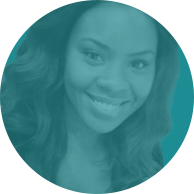
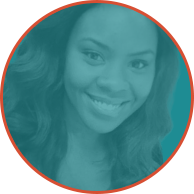
Removed bevel edges

Changed region(s): [[0.0, 0.0, 1.0, 1.0]]

diff --git a/stylesheets/app.css b/stylesheets/app.css
@@ -9052,7 +9052,7 @@ ul {
   overflow-x: hidden;
   overflow-y: auto;
   background-image: url("img/4571462.png");
-  background-size: 60%;
+  background-size: 80%;
 }
 @media screen and (max-width: 480px) {
   /* line 41, ../scss/_custom.scss */
@@ -9091,12 +9091,11 @@ ul {
 
 /* line 87, ../scss/_custom.scss */
 .intro {
-  background: linear-gradient(135deg, transparent 10px, #f7f7ec 0) top left, linear-gradient(225deg, transparent 10px, #f7f7ec 0) top right, linear-gradient(315deg, transparent 10px, #f7f7ec 0) bottom right, linear-gradient(45deg, transparent 10px, #f7f7ec 0) bottom left;
-  background-size: 90%;
-  background-repeat: no-repeat;
   margin-top: 5%;
   float: left;
+  background-color: #f7f7ec;
   padding: 5%;
+  box-shadow: 16px -22px 300px 0px #1e8c93;
 }
 @media screen and (max-width: 1024px) {
   /* line 87, ../scss/_custom.scss */
@@ -9104,20 +9103,20 @@ ul {
     padding: 10%;
   }
 }
-/* line 105, ../scss/_custom.scss */
+/* line 98, ../scss/_custom.scss */
 .intro img {
   width: 20%;
   margin-left: 40%;
   margin-bottom: 10px;
 }
 @media screen and (max-width: 480px) {
-  /* line 105, ../scss/_custom.scss */
+  /* line 98, ../scss/_custom.scss */
   .intro img {
     width: 30%;
     margin-left: 35%;
   }
 }
-/* line 114, ../scss/_custom.scss */
+/* line 107, ../scss/_custom.scss */
 .intro h1 {
   font-family: "rooney-web";
   text-transform: uppercase;
@@ -9126,12 +9125,12 @@ ul {
   color: #4B3E4D;
 }
 @media screen and (max-width: 480px) {
-  /* line 114, ../scss/_custom.scss */
+  /* line 107, ../scss/_custom.scss */
   .intro h1 {
     font-size: 1.5rem;
   }
 }
-/* line 124, ../scss/_custom.scss */
+/* line 117, ../scss/_custom.scss */
 .intro p {
   color: #4B3E4D;
   font-family: "rooney-sans";
@@ -9140,12 +9139,12 @@ ul {
   margin-bottom: 0px;
 }
 @media screen and (max-width: 480px) {
-  /* line 124, ../scss/_custom.scss */
+  /* line 117, ../scss/_custom.scss */
   .intro p {
     font-size: 1rem;
   }
 }
-/* line 134, ../scss/_custom.scss */
+/* line 127, ../scss/_custom.scss */
 .intro p.sub {
   font-size: 1rem;
   font-style: italic;
@@ -9155,13 +9154,13 @@ ul {
   line-height: 80%;
 }
 @media screen and (max-width: 480px) {
-  /* line 134, ../scss/_custom.scss */
+  /* line 127, ../scss/_custom.scss */
   .intro p.sub {
     font-size: 0.75rem;
     font-weight: bold;
   }
 }
-/* line 146, ../scss/_custom.scss */
+/* line 139, ../scss/_custom.scss */
 .intro .story {
   color: #4B3E4D;
   float: left;
@@ -9170,7 +9169,7 @@ ul {
   font-style: italic;
   margin-top: 30px;
 }
-/* line 154, ../scss/_custom.scss */
+/* line 147, ../scss/_custom.scss */
 .intro .divider {
   height: 3px;
   background-color: #C4AC30;
@@ -9179,7 +9178,7 @@ ul {
   float: left;
   margin-left: 45%;
 }
-/* line 162, ../scss/_custom.scss */
+/* line 155, ../scss/_custom.scss */
 .intro ul {
   float: left;
   margin-top: 30px;
@@ -9187,31 +9186,31 @@ ul {
   width: 50%;
 }
 @media screen and (max-width: 1024px) {
-  /* line 162, ../scss/_custom.scss */
+  /* line 155, ../scss/_custom.scss */
   .intro ul {
     margin-left: 25%;
   }
 }
 @media screen and (max-width: 480px) {
-  /* line 162, ../scss/_custom.scss */
+  /* line 155, ../scss/_custom.scss */
   .intro ul {
     width: 100%;
     margin-left: 0%;
   }
 }
-/* line 177, ../scss/_custom.scss */
+/* line 170, ../scss/_custom.scss */
 .intro li {
   float: left;
   width: 15%;
   margin-left: 10%;
 }
 @media screen and (max-width: 1024px) {
-  /* line 177, ../scss/_custom.scss */
+  /* line 170, ../scss/_custom.scss */
   .intro li {
     width: 10%;
   }
 }
-/* line 184, ../scss/_custom.scss */
+/* line 177, ../scss/_custom.scss */
 .intro li img {
   width: 100%;
 }

diff --git a/scss/_custom.scss b/scss/_custom.scss
@@ -44,7 +44,7 @@ list-style: none;
   overflow-x: hidden;
   overflow-y: auto;
   background-image: url('img/4571462.png');
-  background-size: 60%;
+  background-size: 80%;
   	@media screen and (max-width: $phones) {
   	background-size: 100%;
   	}
@@ -85,18 +85,11 @@ background-color: transparentize($yellow, 0.1);
 
 
 .intro {
-background:
-linear-gradient(135deg, transparent 10px, #f7f7ec 0) top left,
-linear-gradient(225deg, transparent 10px, #f7f7ec 0) top right,
-linear-gradient(315deg, transparent 10px, #f7f7ec 0) bottom right,
-linear-gradient(45deg,  transparent 10px, #f7f7ec 0) bottom left;
-background-size: 90%;
-background-repeat: no-repeat;
 margin-top: 5%;
 float: left;
-//background-color: lighten($tan, 20%);
+background-color: lighten($tan, 20%);
 padding: 5%;
-//box-shadow: 16px -22px 300px 0px rgba(30,140,147,1);
+box-shadow: 16px -22px 300px 0px rgba(30,140,147,1);
 	@media screen and (max-width: $tablets) {
 	//margin-top: 25%;
 	padding: 10%;
